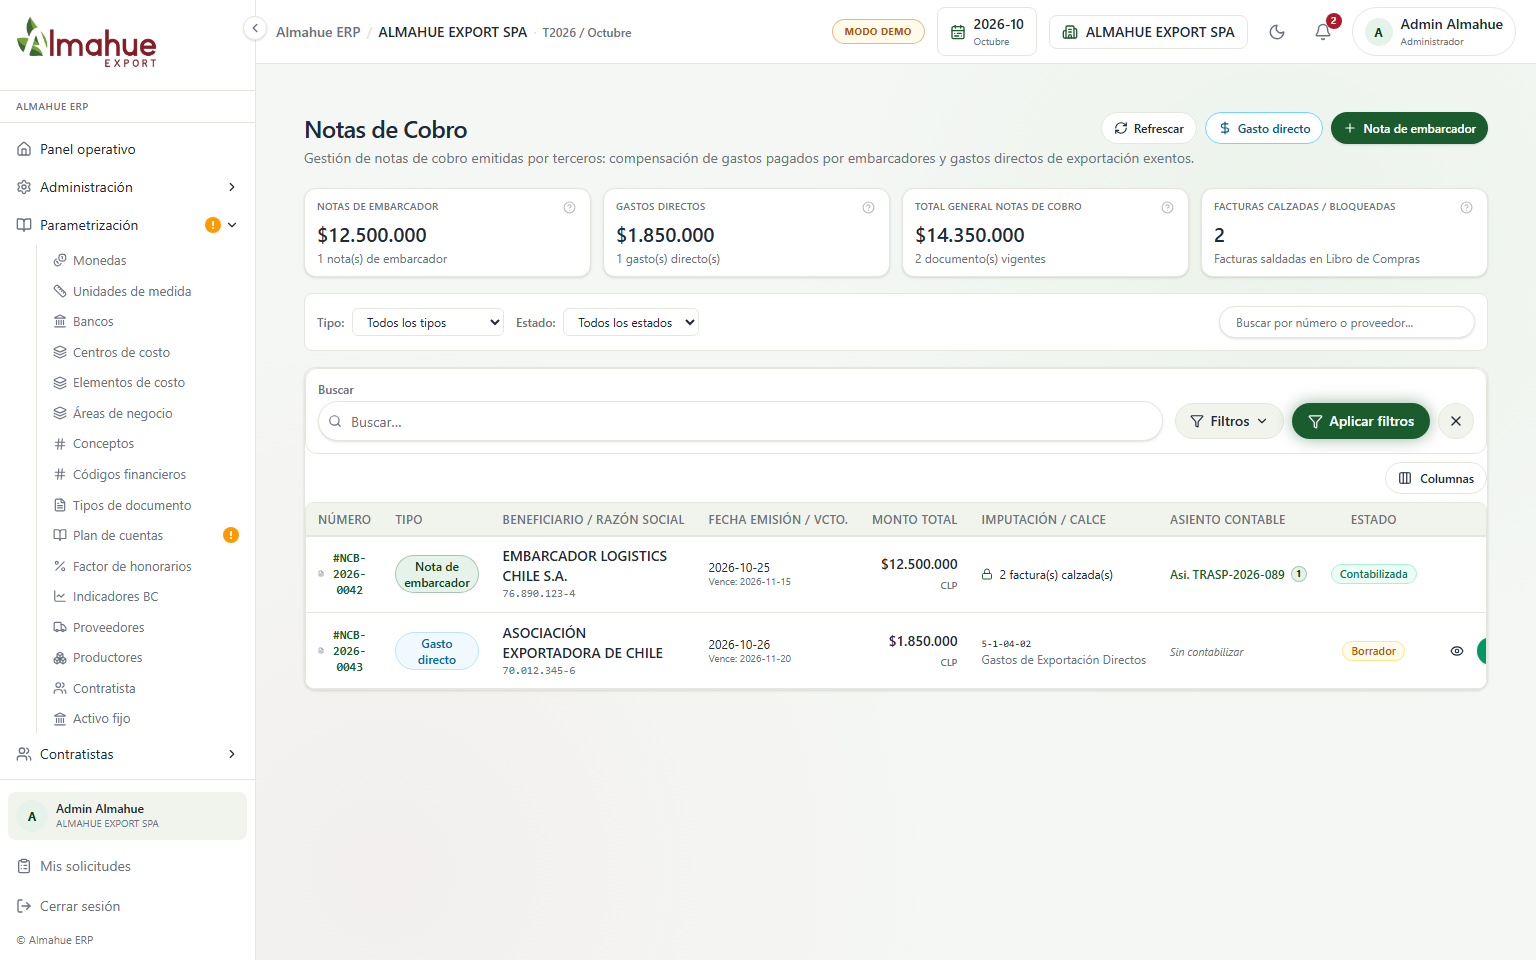
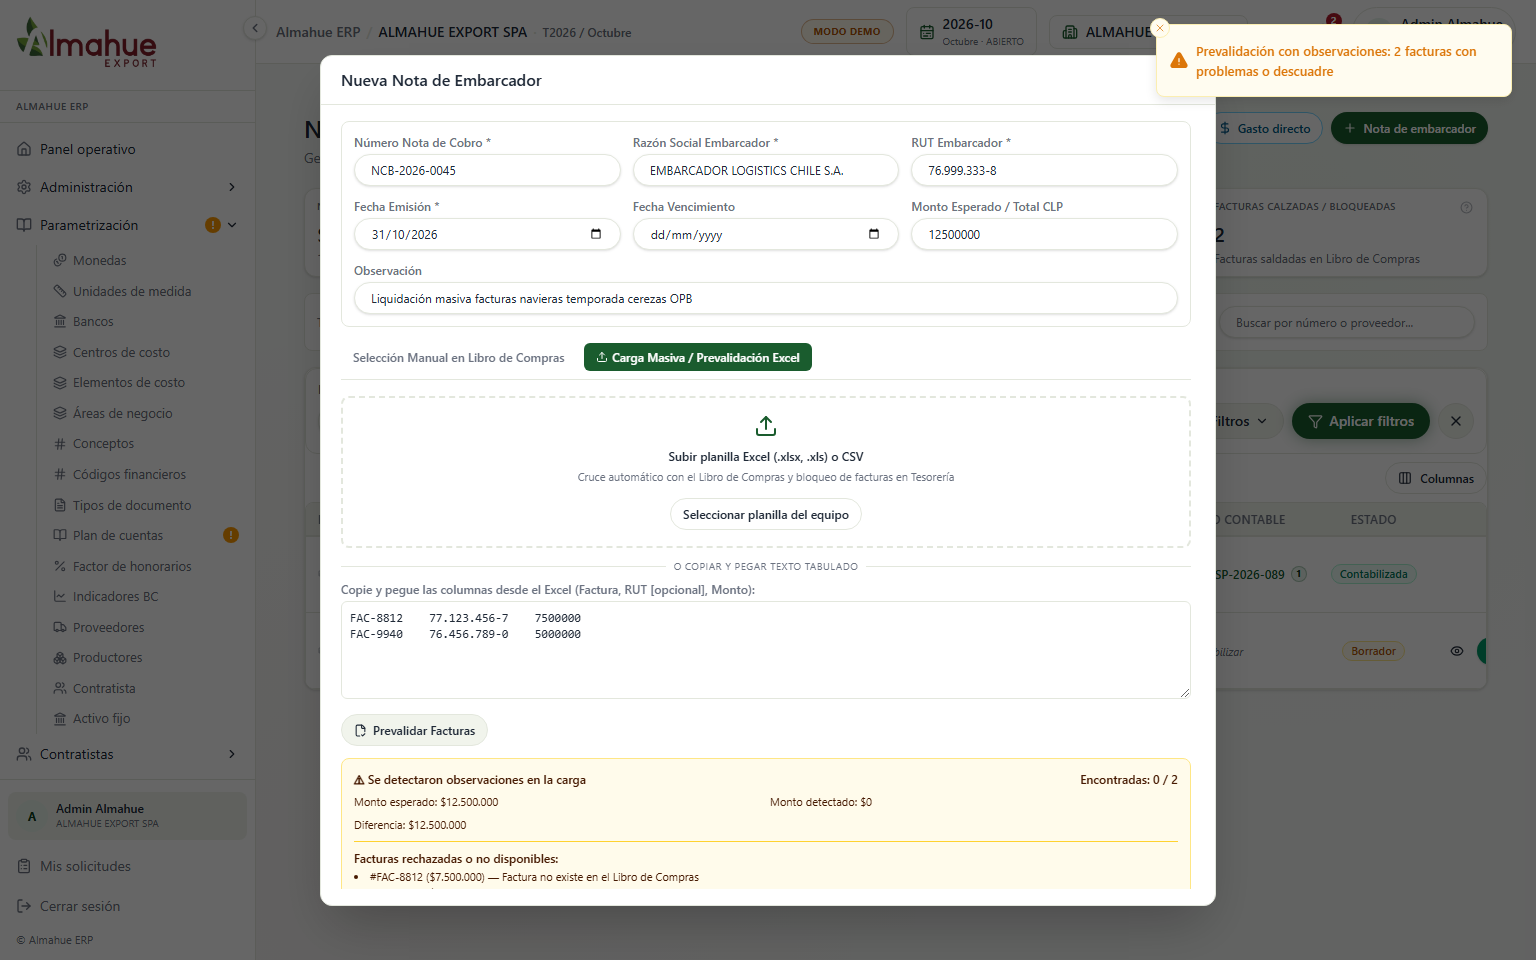
fix(recorrido): actualizar captura y pines de paso 2.7 con modal de carga masiva de embarcadores

diff --git a/docs/sesiones/compras-mejoras-modulo2-2026-10-30/recorrido.html b/docs/sesiones/compras-mejoras-modulo2-2026-10-30/recorrido.html
@@ -537,8 +537,8 @@
         titulo: "Notas de Cobro – Embarcadores: Carga Masiva Excel/CSV y Bloqueo Tesorería (P-7)",
         img: "img/step-2-7-compras-notas-embarcadores.png",
         pins: [
-          { x: 38, y: 32, label: "Tipo de nota: Embarcador (OPB / Facturas por Cuenta de Terceros)" },
-          { x: 50, y: 55, label: "Zona de carga masiva de planillas Excel/CSV y compensación de deudas" }
+          { x: 50, y: 19, label: "Datos de cabecera: Embarcador (OPB), RUT y Monto esperado de control" },
+          { x: 50, y: 48, label: "Zona de carga masiva de planillas Excel/CSV y compensación de deudas" }
         ],
         regla: "Habilita la zona de carga de planillas Excel (.xlsx, .xls) y CSV con procesamiento en backend vía Multer y XLSX, prevalidando automáticamente contra facturas del Libro de Compras y bloqueando su pago duplicado en Tesorería.",
         origen: "Martes PM [15:17], Miércoles [50:24 - 58:10] · Caso crítico OPB",
